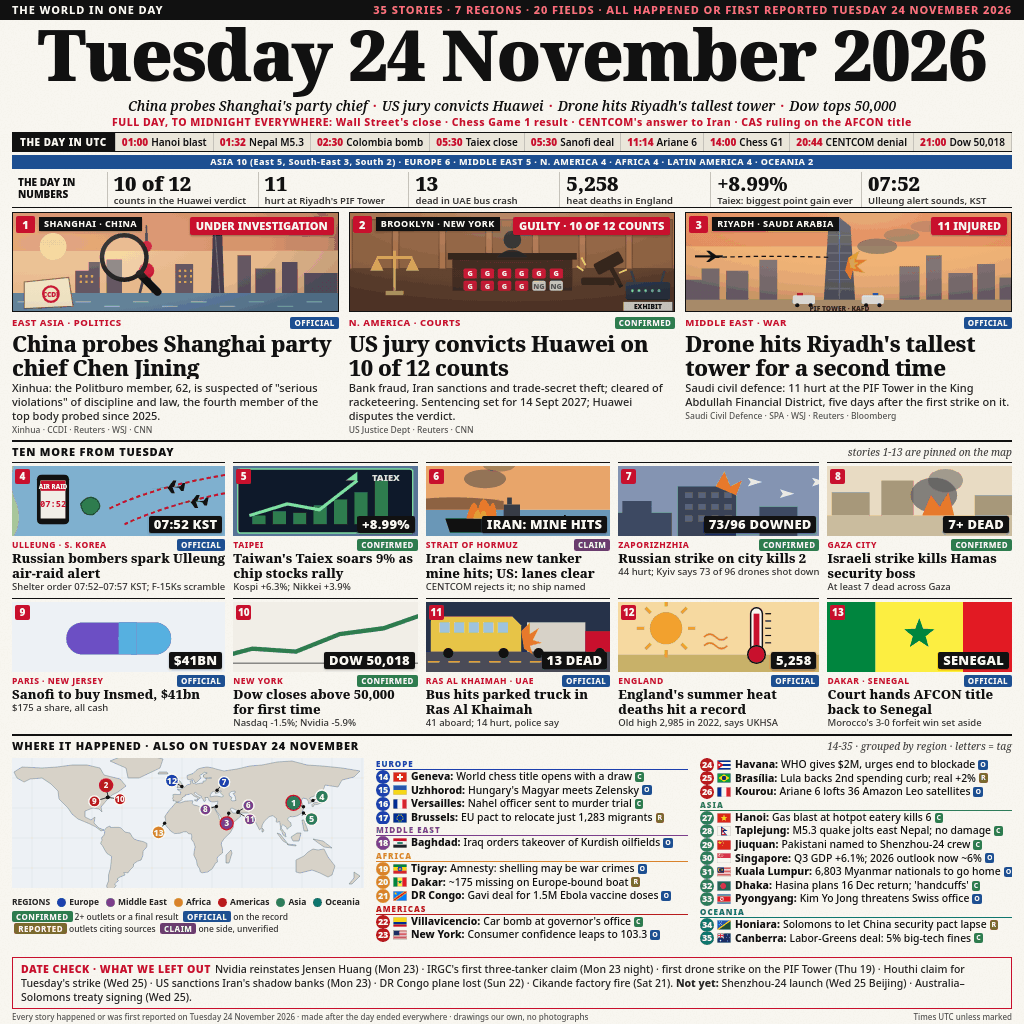
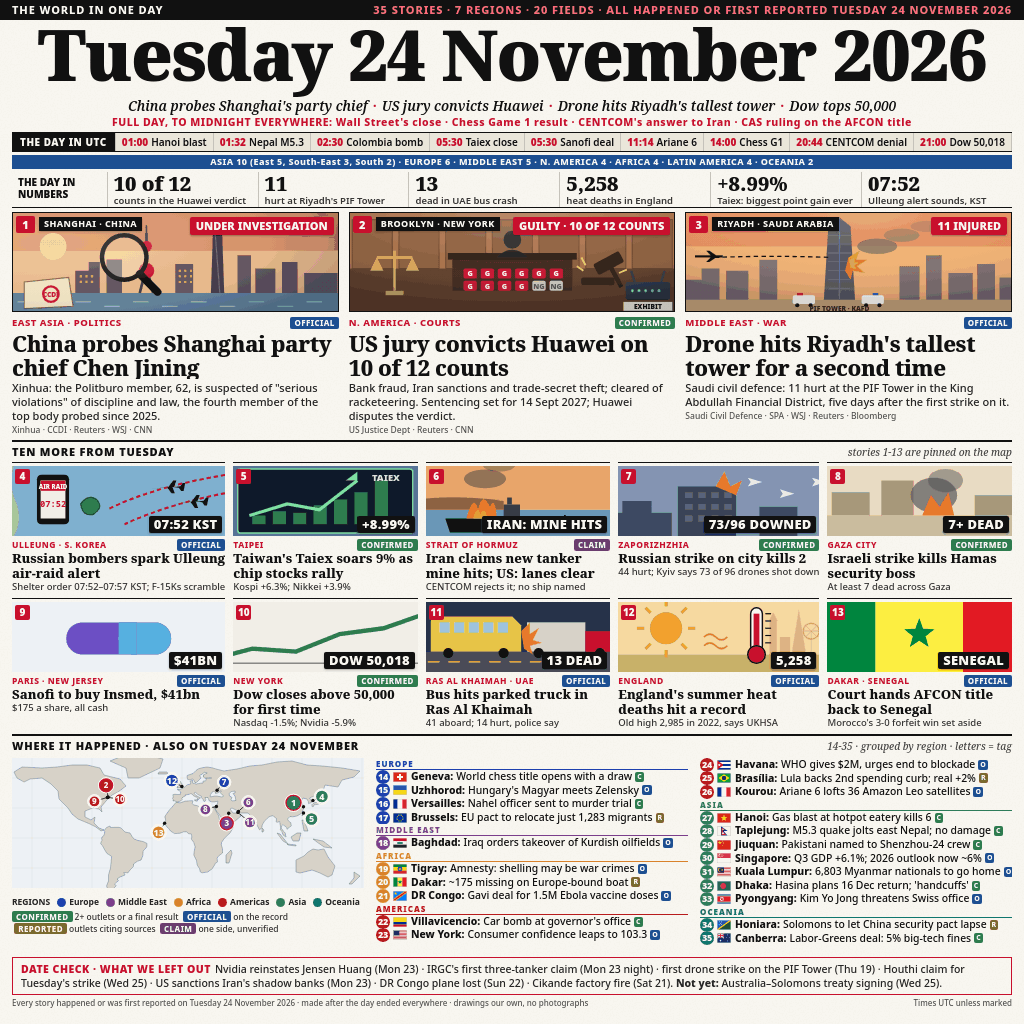
v6c: drop Shenzhou-24 from DATE CHECK, faint London skyline on card 12, white outline on map pins

diff --git a/render/stories.py b/render/stories.py
@@ -144,9 +144,9 @@ STRAP = (f"{N_STORIES} STORIES · {N_REGIONS} REGIONS · {N_FIELDS} FIELDS · "
 # real lon, lat for stories 1-13 + map colour group, with an optional label nudge (dx, dy) in map px
 # #9 sits on Insmed's home, Bridgewater NJ; #2 Brooklyn and #10 Wall Street share New York, so labels fan out
 PINS = [(121.5, 31.2, "ASIA", -10, -4), (-73.9, 40.7, "AMERICAS", -2, -12), (46.7, 24.7, "MIDDLE EAST", -2, 10),
-        (130.9, 37.5, "ASIA", 9, -4), (121.5, 25.0, "ASIA", 8, 6), (56.4, 26.6, "MIDDLE EAST", 10, -6),
+        (130.9, 37.5, "ASIA", 9, -4), (121.5, 25.0, "ASIA", 8, 6), (56.4, 26.6, "MIDDLE EAST", 10, -9),
         (35.1, 47.8, "EUROPE", 7, -8), (34.4, 31.5, "MIDDLE EAST", -11, 3), (-74.6, 40.6, "AMERICAS", -13, 4),
-        (-74.0, 40.7, "AMERICAS", 12, 2), (55.9, 25.6, "MIDDLE EAST", 12, 7), (-0.1, 51.5, "EUROPE", -10, -6),
+        (-74.0, 40.7, "AMERICAS", 12, 2), (55.9, 25.6, "MIDDLE EAST", 12, 10), (-0.1, 51.5, "EUROPE", -10, -6),
         (-17.4, 14.7, "AFRICA", -6, 9)]
 # pins in the crowded clusters are drawn a little smaller
 DENSE = {2, 3, 6, 7, 8, 9, 10, 11}
@@ -157,7 +157,7 @@ INDEX_NOTE = "14-35 · grouped by region · letters = tag"
 LEFT_OUT = ("Nvidia reinstates Jensen Huang (Mon 23) · IRGC's first three-tanker claim (Mon 23 night) · "
             "first drone strike on the PIF Tower (Thu 19) · Houthi claim for Tuesday's strike (Wed 25) · US sanctions Iran's shadow banks (Mon 23) · "
             "DR Congo plane lost (Sun 22) · Cikande factory fire (Sat 21). "
-            "<b>Not yet:</b> Shenzhou-24 launch (Wed 25 Beijing) · Australia–Solomons treaty signing (Wed 25).")
+            "<b>Not yet:</b> Australia–Solomons treaty signing (Wed 25).")
 FOOT_L = ("Every story happened or was first reported on Tuesday 24 November 2026 · made after the day ended everywhere · "
           "drawings our own, no photographs")
 FOOT_R = "Times UTC unless marked"

diff --git a/render/page.py b/render/page.py
@@ -62,7 +62,9 @@ def world_map(pins):
             marks.append(f'<path d="M{x},{y} L{lx},{ly}" stroke="#111" stroke-width=".8"/>')
         marks.append(f'<circle cx="{x}" cy="{y}" r="1.7" fill="#111"/>')
         ring = "#c8102e" if n <= 3 else "#fff"
-        marks.append(f'<circle cx="{lx}" cy="{ly}" r="{r}" fill="{CONT[cont]}" stroke="{ring}" stroke-width="1.3"/>'
+        # thin white outline just outside every pin so neighbouring pins separate cleanly
+        marks.append(f'<circle cx="{lx}" cy="{ly}" r="{r + 1.15:.2f}" fill="none" stroke="#fff" stroke-width="1"/>'
+                     f'<circle cx="{lx}" cy="{ly}" r="{r}" fill="{CONT[cont]}" stroke="{ring}" stroke-width="1.3"/>'
                      f'<text x="{lx}" y="{ly + fs * 0.36:.1f}" text-anchor="middle" font-family="Noto Sans" font-size="{fs}" '
                      f'font-weight="800" fill="#fff">{n}</text>')
     return (f'<svg width="{MAP_W}" height="{MAP_H}" viewBox="0 0 {MAP_W} {MAP_H}">'
@@ -76,7 +78,7 @@ def pin_boxes(pins):
         x, y = proj(lon, lat)
         dense = n in stories.DENSE
         r = (6.5 if dense else 7.5) if n <= 3 else (5.6 if dense else 6.5)
-        out.append((n, x + dx, y + dy, r + 0.65))
+        out.append((n, x + dx, y + dy, r + 1.65))  # outer edge of the white outline
     return out
 
 

diff --git a/render/art.py b/render/art.py
@@ -452,7 +452,13 @@ def c_bus():
 
 def c_heat():
     # a blazing sun, a thermometer at the top of its scale, heat shimmer over parched grass
-    return card('<rect width="180" height="48" fill="#f6d9a0"/><rect y="36" width="180" height="12" fill="#c9b26a"/>'
+    return card('<rect width="180" height="48" fill="#f6d9a0"/>'
+                # faint London skyline on the right horizon (the card frame shows about x 22-158): Big Ben, the Shard, the Eye
+                '<g fill="#a0522d" opacity=".26"><rect x="125" y="13" width="5" height="23"/><path d="M124.5,13 l3,-6 l3,6 z"/>'
+                '<rect x="132" y="24" width="7" height="12"/><path d="M140,36 l5,-31 l5,31 z"/></g>'
+                '<circle cx="153.5" cy="20" r="5.5" fill="none" stroke="#a0522d" stroke-width="1" opacity=".3"/>'
+                '<path d="M153.5,20 l0,16 M148,20 l11,0 M149.6,16.1 l7.8,7.8 M157.4,16.1 l-7.8,7.8" stroke="#a0522d" stroke-width=".5" opacity=".3"/>'
+                '<rect y="36" width="180" height="12" fill="#c9b26a"/>'
                 '<circle cx="54" cy="18" r="11" fill="#f2a12e"/>'
                 + "".join(f'<path d="M{54+15*math.cos(k*0.785):.1f},{18+15*math.sin(k*0.785):.1f} '
                           f'l{5*math.cos(k*0.785):.1f},{5*math.sin(k*0.785):.1f}" stroke="#f2a12e" stroke-width="2"/>'
